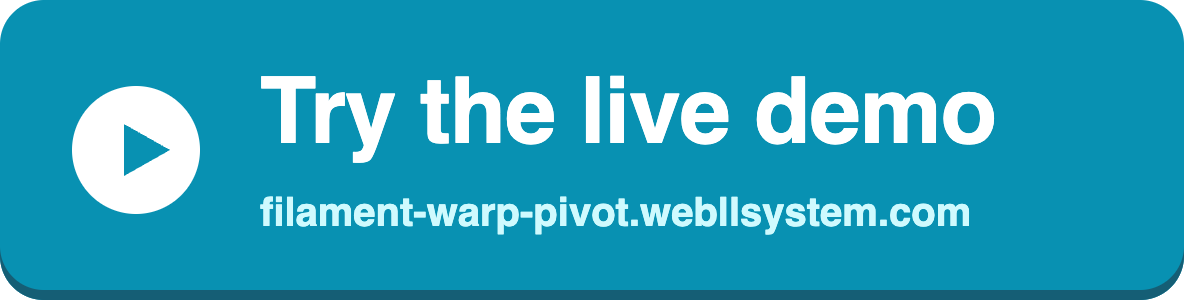
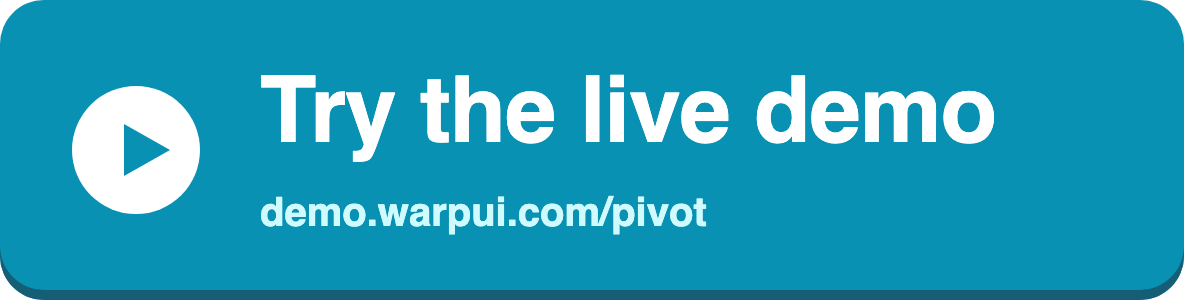
The live demo moved to demo.warpui.com/pivot

diff --git a/README.md b/README.md
@@ -4,9 +4,9 @@
 
 **A pivot table for Filament that aggregates in the database and draws the result on a `<canvas>`: a million source rows are no heavier than a hundred, and a result of thousands of rows and hundreds of columns still scrolls smoothly. Filters, actions, policies and tenancy are Filament's own.**
 
-<a href="https://filament-warp-pivot.webllsystem.com/"><img src="https://raw.githubusercontent.com/qalainau-labs/filament-warp-pivot-docs/main/art/live-demo.png" alt="Try the live demo: filament-warp-pivot.webllsystem.com" width="592"></a>
+<a href="https://demo.warpui.com/pivot"><img src="https://raw.githubusercontent.com/qalainau-labs/filament-warp-pivot-docs/main/art/live-demo.png" alt="Try the live demo: demo.warpui.com/pivot" width="592"></a>
 
-Drag fields across 200,000 sales, filter regions by their sales, open a cell to search and edit the sales behind it, and export the result to Excel or PDF at **[filament-warp-pivot.webllsystem.com](https://filament-warp-pivot.webllsystem.com/)**. No sign-up needed; the data is reset every hour.
+Drag fields across 200,000 sales, filter regions by their sales, open a cell to search and edit the sales behind it, and export the result to Excel or PDF at **[demo.warpui.com/pivot](https://demo.warpui.com/pivot)**. No sign-up needed; the data is reset every hour.
 
 Pivot components for the browser load every record into JavaScript and add them up there. That stops working long before a sales table reaches a million rows. Warp Pivot sends `GROUP BY` queries to your database instead, only for the headers that are open, and sends only the totals to the browser.
 
